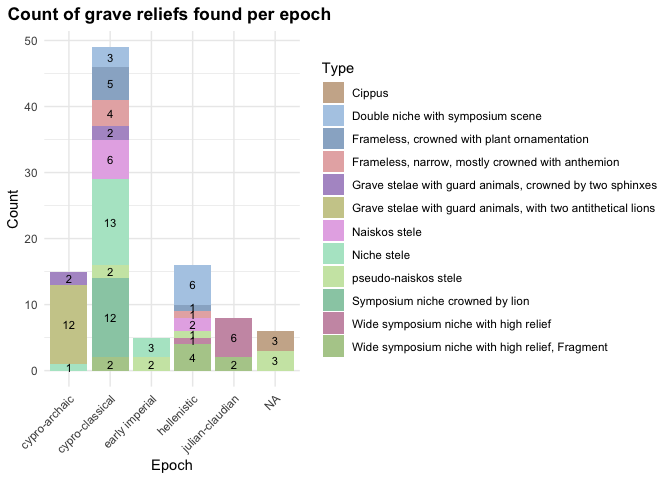
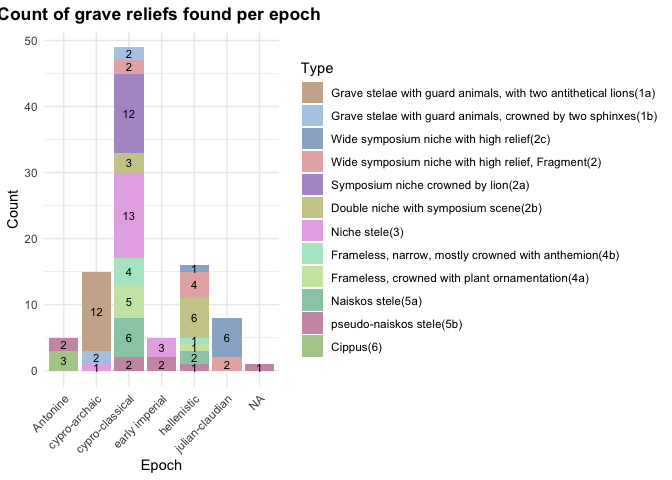
Final draft

Changed region(s): [[0.0625, 0.0938, 0.9688, 0.7812], [0.0312, 0.8125, 0.4375, 1.0], [0.0, 0.0, 0.5, 0.0625]]

diff --git a/Projects/johannaroever/Davidprntz.md b/Projects/johannaroever/Davidprntz.md
@@ -35,10 +35,11 @@
        location = if_else(is.na(location), "Cyprus", location),
        location = if_else(str_detect(location, "\\(\\?\\)"), "Cyprus", location),
        location = case_when(
-          location %in% c("region of Limassol", "Mathikoloni") ~ "Amathus",
+          location %in% c("region of Limassol", "Limassol",
+     "Mathikoloni") ~ "Amathus",
           location %in% c("Athienou", "Melousha", "Pergamon") ~ "Golgoi",
           location == "Alambra (Larnaca)" ~ "Kition",
-          location %in% c("Pano Arodes", "Polis") ~ "Marion",
+          location %in% c("Pano Arodes", "Polis","Salamiu, NE of Kouklia (Alt Paphos)") ~ "Marion",
           location %in% c("Kotschines (neighbourhood of Lysi)", "north of Lysi, district Famagusta") ~ "Salamis",
           location == "Ambelia, near Morphou" ~ "Soloi",
           location == "Pera (Asproji)" ~ "Tamassos",
@@ -48,69 +49,66 @@
         str_detect(location, paste(names_to_keep, collapse = "|")) ~ 
           str_extract(location, paste(names_to_keep, collapse = "|")),
         TRUE ~ location
-      ),location = case_when(
-          location == "Salamiu, NE of Kouklia (Alt Paphos)" ~ "Salamis",
-          TRUE ~ location 
-        )
+      )
       )
 
 \#Create table to show amount of type per epoch
 
     df$epoch <- factor(df$epoch, ordered = TRUE, 
-                            levels = c("antonine", "cypro-archaic", "cypro-classical","early imperial", "hellenistic",
-                                       "hellenistic-roman", "julian-claudian"))
+                            levels = c("Antonine", "cypro-archaic", "cypro-classical","early imperial", "hellenistic", "julian-claudian"))
+    df$type <- fct_relevel(df$type, c("6", "5b", "5a", "4b", "4a", "3", "2c", "2b", "2a", "2", "1b", "1a", "not defined"))
+
+    ## Warning: 1 unknown level in `f`: not defined
+
     df_cleaned <- df %>% filter(!is.na(typeDesc))
 
     count_table <- df_cleaned %>%
-      group_by(typeDesc, epoch) %>%
+      group_by(typeDesc, epoch, type) %>%
       summarise(count = n(), .groups = 'drop')
     print(count_table)
 
-    ## # A tibble: 25 × 3
-    ##    typeDesc                                                     epoch      count
-    ##    <chr>                                                        <ord>      <int>
-    ##  1 Cippus                                                       <NA>           3
-    ##  2 Double niche with symposium scene                            cypro-cla…     3
-    ##  3 Double niche with symposium scene                            hellenist…     6
-    ##  4 Frameless, crowned with plant ornamentation                  cypro-cla…     5
-    ##  5 Frameless, crowned with plant ornamentation                  hellenist…     1
-    ##  6 Frameless, narrow, mostly crowned with anthemion             cypro-cla…     4
-    ##  7 Frameless, narrow, mostly crowned with anthemion             hellenist…     1
-    ##  8 Grave stelae with guard animals, crowned by two sphinxes     cypro-arc…     2
-    ##  9 Grave stelae with guard animals, crowned by two sphinxes     cypro-cla…     2
-    ## 10 Grave stelae with guard animals, with two antithetical lions cypro-arc…    12
-    ## # ℹ 15 more rows
+    ## # A tibble: 26 × 4
+    ##    typeDesc                                                    epoch type  count
+    ##    <chr>                                                       <ord> <fct> <int>
+    ##  1 Cippus                                                      Anto… 6         3
+    ##  2 Double niche with symposium scene                           cypr… 2b        3
+    ##  3 Double niche with symposium scene                           hell… 2b        6
+    ##  4 Frameless, crowned with plant ornamentation                 cypr… 4a        5
+    ##  5 Frameless, crowned with plant ornamentation                 hell… 4a        1
+    ##  6 Frameless, narrow, mostly crowned with anthemion            cypr… 4b        4
+    ##  7 Frameless, narrow, mostly crowned with anthemion            hell… 4b        1
+    ##  8 Grave stelae with guard animals, crowned by two sphinxes    cypr… 1b        2
+    ##  9 Grave stelae with guard animals, crowned by two sphinxes    cypr… 1b        2
+    ## 10 Grave stelae with guard animals, with two antithetical lio… cypr… 1a       12
+    ## # ℹ 16 more rows
 
     knitr::kable(table(df$typeDesc, df$epoch))
 
-<table style="width:100%;">
+<table>
 <colgroup>
-<col style="width: 37%" />
-<col style="width: 5%" />
-<col style="width: 8%" />
+<col style="width: 42%" />
+<col style="width: 6%" />
 <col style="width: 9%" />
-<col style="width: 9%" />
-<col style="width: 7%" />
 <col style="width: 11%" />
-<col style="width: 9%" />
+<col style="width: 10%" />
+<col style="width: 8%" />
+<col style="width: 11%" />
 </colgroup>
 <thead>
 <tr class="header">
 <th style="text-align: left;"></th>
-<th style="text-align: right;">antonine</th>
+<th style="text-align: right;">Antonine</th>
 <th style="text-align: right;">cypro-archaic</th>
 <th style="text-align: right;">cypro-classical</th>
 <th style="text-align: right;">early imperial</th>
 <th style="text-align: right;">hellenistic</th>
-<th style="text-align: right;">hellenistic-roman</th>
 <th style="text-align: right;">julian-claudian</th>
 </tr>
 </thead>
 <tbody>
 <tr class="odd">
 <td style="text-align: left;">Cippus</td>
-<td style="text-align: right;">0</td>
-<td style="text-align: right;">0</td>
+<td style="text-align: right;">3</td>
 <td style="text-align: right;">0</td>
 <td style="text-align: right;">0</td>
 <td style="text-align: right;">0</td>
@@ -125,7 +123,6 @@
 <td style="text-align: right;">0</td>
 <td style="text-align: right;">6</td>
 <td style="text-align: right;">0</td>
-<td style="text-align: right;">0</td>
 </tr>
 <tr class="odd">
 <td style="text-align: left;">Frameless, crowned with plant
@@ -135,7 +132,6 @@ ornamentation</td>
 <td style="text-align: right;">5</td>
 <td style="text-align: right;">0</td>
 <td style="text-align: right;">1</td>
-<td style="text-align: right;">0</td>
 <td style="text-align: right;">0</td>
 </tr>
 <tr class="even">
@@ -147,7 +143,6 @@ anthemion</td>
 <td style="text-align: right;">0</td>
 <td style="text-align: right;">1</td>
 <td style="text-align: right;">0</td>
-<td style="text-align: right;">0</td>
 </tr>
 <tr class="odd">
 <td style="text-align: left;">Grave stelae with guard animals, crowned
@@ -155,7 +150,6 @@ by two sphinxes</td>
 <td style="text-align: right;">0</td>
 <td style="text-align: right;">2</td>
 <td style="text-align: right;">2</td>
-<td style="text-align: right;">0</td>
 <td style="text-align: right;">0</td>
 <td style="text-align: right;">0</td>
 <td style="text-align: right;">0</td>
@@ -169,7 +163,6 @@ antithetical lions</td>
 <td style="text-align: right;">0</td>
 <td style="text-align: right;">0</td>
 <td style="text-align: right;">0</td>
-<td style="text-align: right;">0</td>
 </tr>
 <tr class="odd">
 <td style="text-align: left;">Naiskos stele</td>
@@ -178,7 +171,6 @@ antithetical lions</td>
 <td style="text-align: right;">6</td>
 <td style="text-align: right;">0</td>
 <td style="text-align: right;">2</td>
-<td style="text-align: right;">0</td>
 <td style="text-align: right;">0</td>
 </tr>
 <tr class="even">
@@ -189,16 +181,14 @@ antithetical lions</td>
 <td style="text-align: right;">3</td>
 <td style="text-align: right;">0</td>
 <td style="text-align: right;">0</td>
-<td style="text-align: right;">0</td>
 </tr>
 <tr class="odd">
 <td style="text-align: left;">pseudo-naiskos stele</td>
-<td style="text-align: right;">0</td>
+<td style="text-align: right;">2</td>
 <td style="text-align: right;">0</td>
 <td style="text-align: right;">2</td>
 <td style="text-align: right;">2</td>
 <td style="text-align: right;">1</td>
-<td style="text-align: right;">0</td>
 <td style="text-align: right;">0</td>
 </tr>
 <tr class="even">
@@ -206,7 +196,6 @@ antithetical lions</td>
 <td style="text-align: right;">0</td>
 <td style="text-align: right;">0</td>
 <td style="text-align: right;">12</td>
-<td style="text-align: right;">0</td>
 <td style="text-align: right;">0</td>
 <td style="text-align: right;">0</td>
 <td style="text-align: right;">0</td>
@@ -218,7 +207,6 @@ antithetical lions</td>
 <td style="text-align: right;">0</td>
 <td style="text-align: right;">0</td>
 <td style="text-align: right;">1</td>
-<td style="text-align: right;">0</td>
 <td style="text-align: right;">6</td>
 </tr>
 <tr class="even">
@@ -229,7 +217,6 @@ Fragment</td>
 <td style="text-align: right;">2</td>
 <td style="text-align: right;">0</td>
 <td style="text-align: right;">4</td>
-<td style="text-align: right;">0</td>
 <td style="text-align: right;">2</td>
 </tr>
 </tbody>
@@ -239,8 +226,26 @@ Fragment</td>
                                  "#cccc99", "#e6b2e6", "#b2e6cc", "#cce6b2", "#99ccb2", 
                                  "#cc99b2", "#b2cc99")
 
+    count_table <- count_table %>%
+      mutate(typeDescType = paste(typeDesc, "(", type, ")", sep = ""))
 
-    ggplot(count_table, aes(x = epoch, y = count, fill = typeDesc)) +
+    count_table$typeDescType <- fct_relevel(count_table$typeDescType, c(
+      "Grave stelae with guard animals, with two antithetical lions(1a)",
+      "Grave stelae with guard animals, crowned by two sphinxes(1b)",
+      "Wide symposium niche with high relief(2c)",
+      "Wide symposium niche with high relief, Fragment(2)",
+      "Symposium niche crowned by lion(2a)",
+      "Double niche with symposium scene(2b)",
+      "Niche stele(3)",
+      "Frameless, narrow, mostly crowned with anthemion(4b)",
+      "Frameless, crowned with plant ornamentation(4a)",
+      "Naiskos stele(5a)",
+      "pseudo-naiskos stele(5b)",
+      "Cippus(6)"
+    ))
+
+
+    ggplot(count_table, aes(x = epoch, y = count, fill = typeDescType)) +
       geom_bar(stat = "identity", position = "stack") +
       geom_text(aes(label = count), position = position_stack(vjust = 0.5), size = 3) +
       labs(title = "Count of grave reliefs found per epoch ", x = "Epoch", y = "Count", fill = "Type") +
